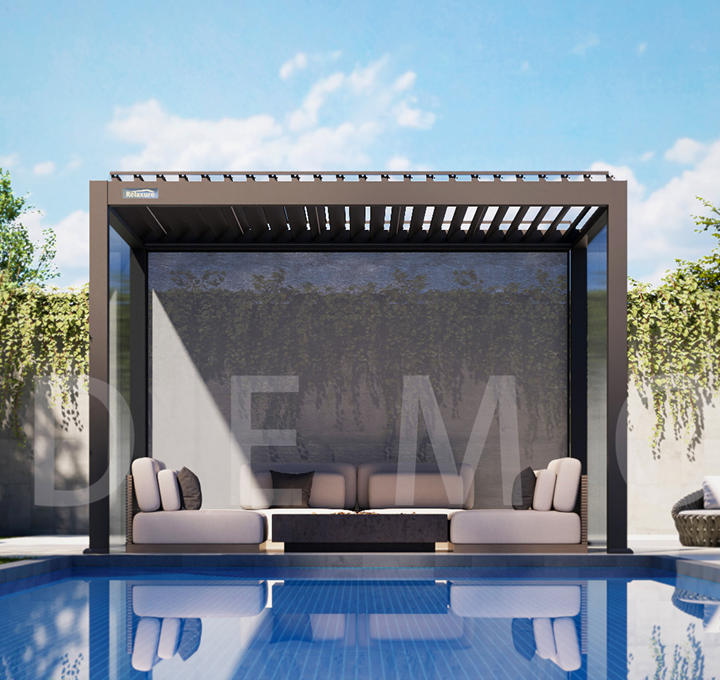
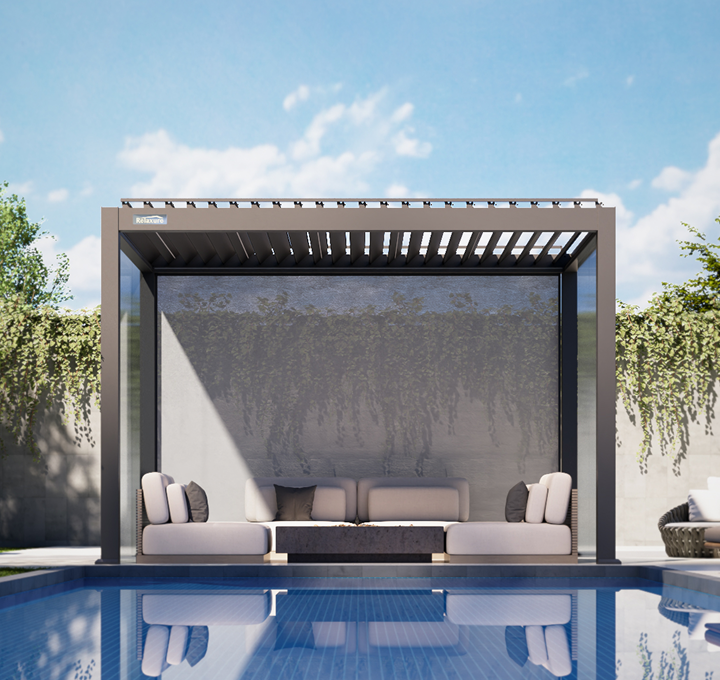
bug fix

diff --git a/src/modules/home/homepage/page/sections/footer/footer.tsx b/src/modules/home/homepage/page/sections/footer/footer.tsx
@@ -3,7 +3,7 @@
 import { Button } from "@/components/ui/button"
 import { Input } from "@/components/ui/input"
 import { getPolicies } from "@lib/cms/strapiCmsApi"
-import { ArrowRight, Star } from "lucide-react"
+import { ArrowRight } from "lucide-react"
 import Link from "next/link"
 import React, { useEffect, useState } from "react"
 import { IconDelivery, IconPackage, IconWarranty } from "./icons"
@@ -175,21 +175,30 @@ export const FooterDark = ({
           </div>
 
           <div className="flex gap-[22px] lg:gap-[25px] lg:my-10 my-5">
-            <a className="lg:w-[45px] lg:h-[45px] w-[39px] h-[39px]" href="#">
+            <a
+              className="lg:w-[45px] lg:h-[45px] w-[39px] h-[39px]"
+              href="https://www.facebook.com/people/Relaxure/61570952814126/?mibextid=wwXIfr"
+            >
               <img
                 className={"w-full h-full"}
                 src="/img/icon-facebook.svg"
                 alt="facebook"
               />
             </a>
-            <a className="lg:w-[45px] lg:h-[45px] w-[39px] h-[39px]" href="#">
+            <a
+              className="lg:w-[45px] lg:h-[45px] w-[39px] h-[39px]"
+              href="https://www.instagram.com/relaxureliving/"
+            >
               <img
                 className={"w-full h-full"}
                 src="/img/icon-instagram.svg"
                 alt="instagram"
               />
             </a>
-            <a className="lg:w-[45px] lg:h-[45px] w-[39px] h-[39px]" href="#">
+            <a
+              className="lg:w-[45px] lg:h-[45px] w-[39px] h-[39px]"
+              href="https://www.youtube.com/@Relaxure-Pergola"
+            >
               <img
                 className={"w-full h-full"}
                 src="/img/icon-youtube.svg"
@@ -225,7 +234,7 @@ export const FooterDark = ({
         </div>
 
         <div>
-          <div className="flex items-center gap-x-6 gap-y-[10px] lg:gap-y-6 flex-wrap mb-[57px]">
+          {/* <div className="flex items-center gap-x-6 gap-y-[10px] lg:gap-y-6 flex-wrap mb-[57px]">
             <span className="text-lg sm:text-xl font-semibold">Excellent</span>
             <div className={"flex flex-col items-center"}>
               <div className="flex">
@@ -252,7 +261,7 @@ export const FooterDark = ({
                 Satisfied Customers.
               </div>
             </div>
-          </div>
+          </div> */}
           <div className={"flex gap-y-[30px] lg:gap-6 flex-wrap"}>
             <div
               className={

diff --git a/src/modules/home/homepage/page/sections/NavBarWrapper/NavBarWrapper.tsx b/src/modules/home/homepage/page/sections/NavBarWrapper/NavBarWrapper.tsx
@@ -3,6 +3,7 @@
 import V2Button from "@/components/V2Button"
 import { getMenu } from "@lib/cms/strapiCmsApi"
 import { useCart } from "@lib/context/cartContext"
+import { useIsMobile } from "@lib/hooks/useScreenSize"
 import { getStrapiUrl } from "@lib/utils"
 import { Menu, Minus, MoveRight, Plus, X } from "lucide-react"
 import Link from "next/link"
@@ -82,6 +83,7 @@ export const NavBarWrapper = ({
   const router = useRouter()
 
   const hasItemsInCart = cart?.items && cart.items.length > 0
+  const isMobile = useIsMobile(1024)
 
   // 从API获取菜单数据
   useEffect(() => {
@@ -95,6 +97,12 @@ export const NavBarWrapper = ({
     }
     fetchMenuData()
   }, [])
+
+  useEffect(() => {
+    if (menuData && isMobile) {
+      setOpenSubmenu(menuData.data.menu_item[0].id)
+    }
+  }, [isMobile, menuData])
 
   // 处理菜单项点击
   const handleMenuItemClick = (
@@ -236,7 +244,7 @@ export const NavBarWrapper = ({
             </button>
 
             {/* 桌面端下拉菜单 */}
-            <div className="fixed top-[75px] bg-[#EFEEEB] invisible group-hover:opacity-100 group-hover:visible transition-all z-50 -translate-x-6">
+            <div className="fixed top-20 bg-[#EFEEEB] invisible group-hover:opacity-100 group-hover:visible transition-all z-50 -translate-x-6">
               <div className="px-10 py-4">
                 {item.sub_menu_item.map((subItem) => (
                   <a
@@ -459,7 +467,7 @@ export const NavBarWrapper = ({
           </button>
 
           {/* 桌面端下拉菜单 */}
-          <div className="fixed left-0 top-[75px] max-h-[600px] py-10 w-screen bg-[#EFEEEB] invisible group-hover:opacity-100 group-hover:visible transition-all z-50">
+          <div className="fixed left-0 top-20 max-h-[600px] py-10 w-screen bg-[#EFEEEB] invisible group-hover:opacity-100 group-hover:visible transition-all z-50">
             <div
               className={
                 "w-full max-w-[1074px] flex justify-center items-center gap-y-10 m-auto flex-wrap"

diff --git a/src/components/V2FeatureShowcase.tsx b/src/components/V2FeatureShowcase.tsx
@@ -19,18 +19,18 @@ export function V2FeatureShowcase({
     <div className={`w-full ${getBackgroundColor(data.backgroundColor)}`}>
       {/* Section Body */}
       {(data.title || data.description) && (
-        <div className="px-6 lg:px-0 py-8 lg:py-0">
+        <div className="px-6 lg:px-0 py-8 lg:py-20">
           {/* Hero Content */}
-          <div className="text-center mt-8 lg:mt-16 mb-3 lg:mb-5">
+          <div className="text-center">
             {/* Hero title */}
             <h1
               id="craftsmanship-title"
-              className="text-2xl lg:text-h2 font-bold text-black mb-2.5 lg:mb-6 leading-tight"
+              className="w-full lg:max-w-[1074px] lg:mx-auto text-2xl lg:text-h2 font-bold text-black leading-tight"
             >
               {data.title}
             </h1>
             {/* Hero description */}
-            <div className="w-full lg:max-w-[1074px] lg:mx-auto text-[#8C877C] text-sm lg:text-lg mb-2.5 lg:mb-0">
+            <div className="w-full lg:max-w-[1074px] lg:mx-auto text-[#8C877C] text-sm lg:text-lg mt-[10px] lg:mt-5">
               <Markdown remarkPlugins={[remarkGfm]}>
                 {data.description}
               </Markdown>

diff --git a/src/app/our-collection/CollectionContent.tsx b/src/app/our-collection/CollectionContent.tsx
@@ -7,7 +7,9 @@ import remarkGfm from "remark-gfm"
 export function CollectionContent({ data }: { data: any }) {
   return (
     <section
-      className={"w-full pt-[18px] pb-12 px-6 lg:max-w-7xl lg:py-28 lg:px-0"}
+      className={
+        "w-full pt-[18px] pb-12 px-6 lg:max-w-[1074px] lg:m-auto lg:py-28 lg:px-0"
+      }
     >
       <V2Headline title={data.title} />
       <div className="mt-10 whitespace-break-spaces">
